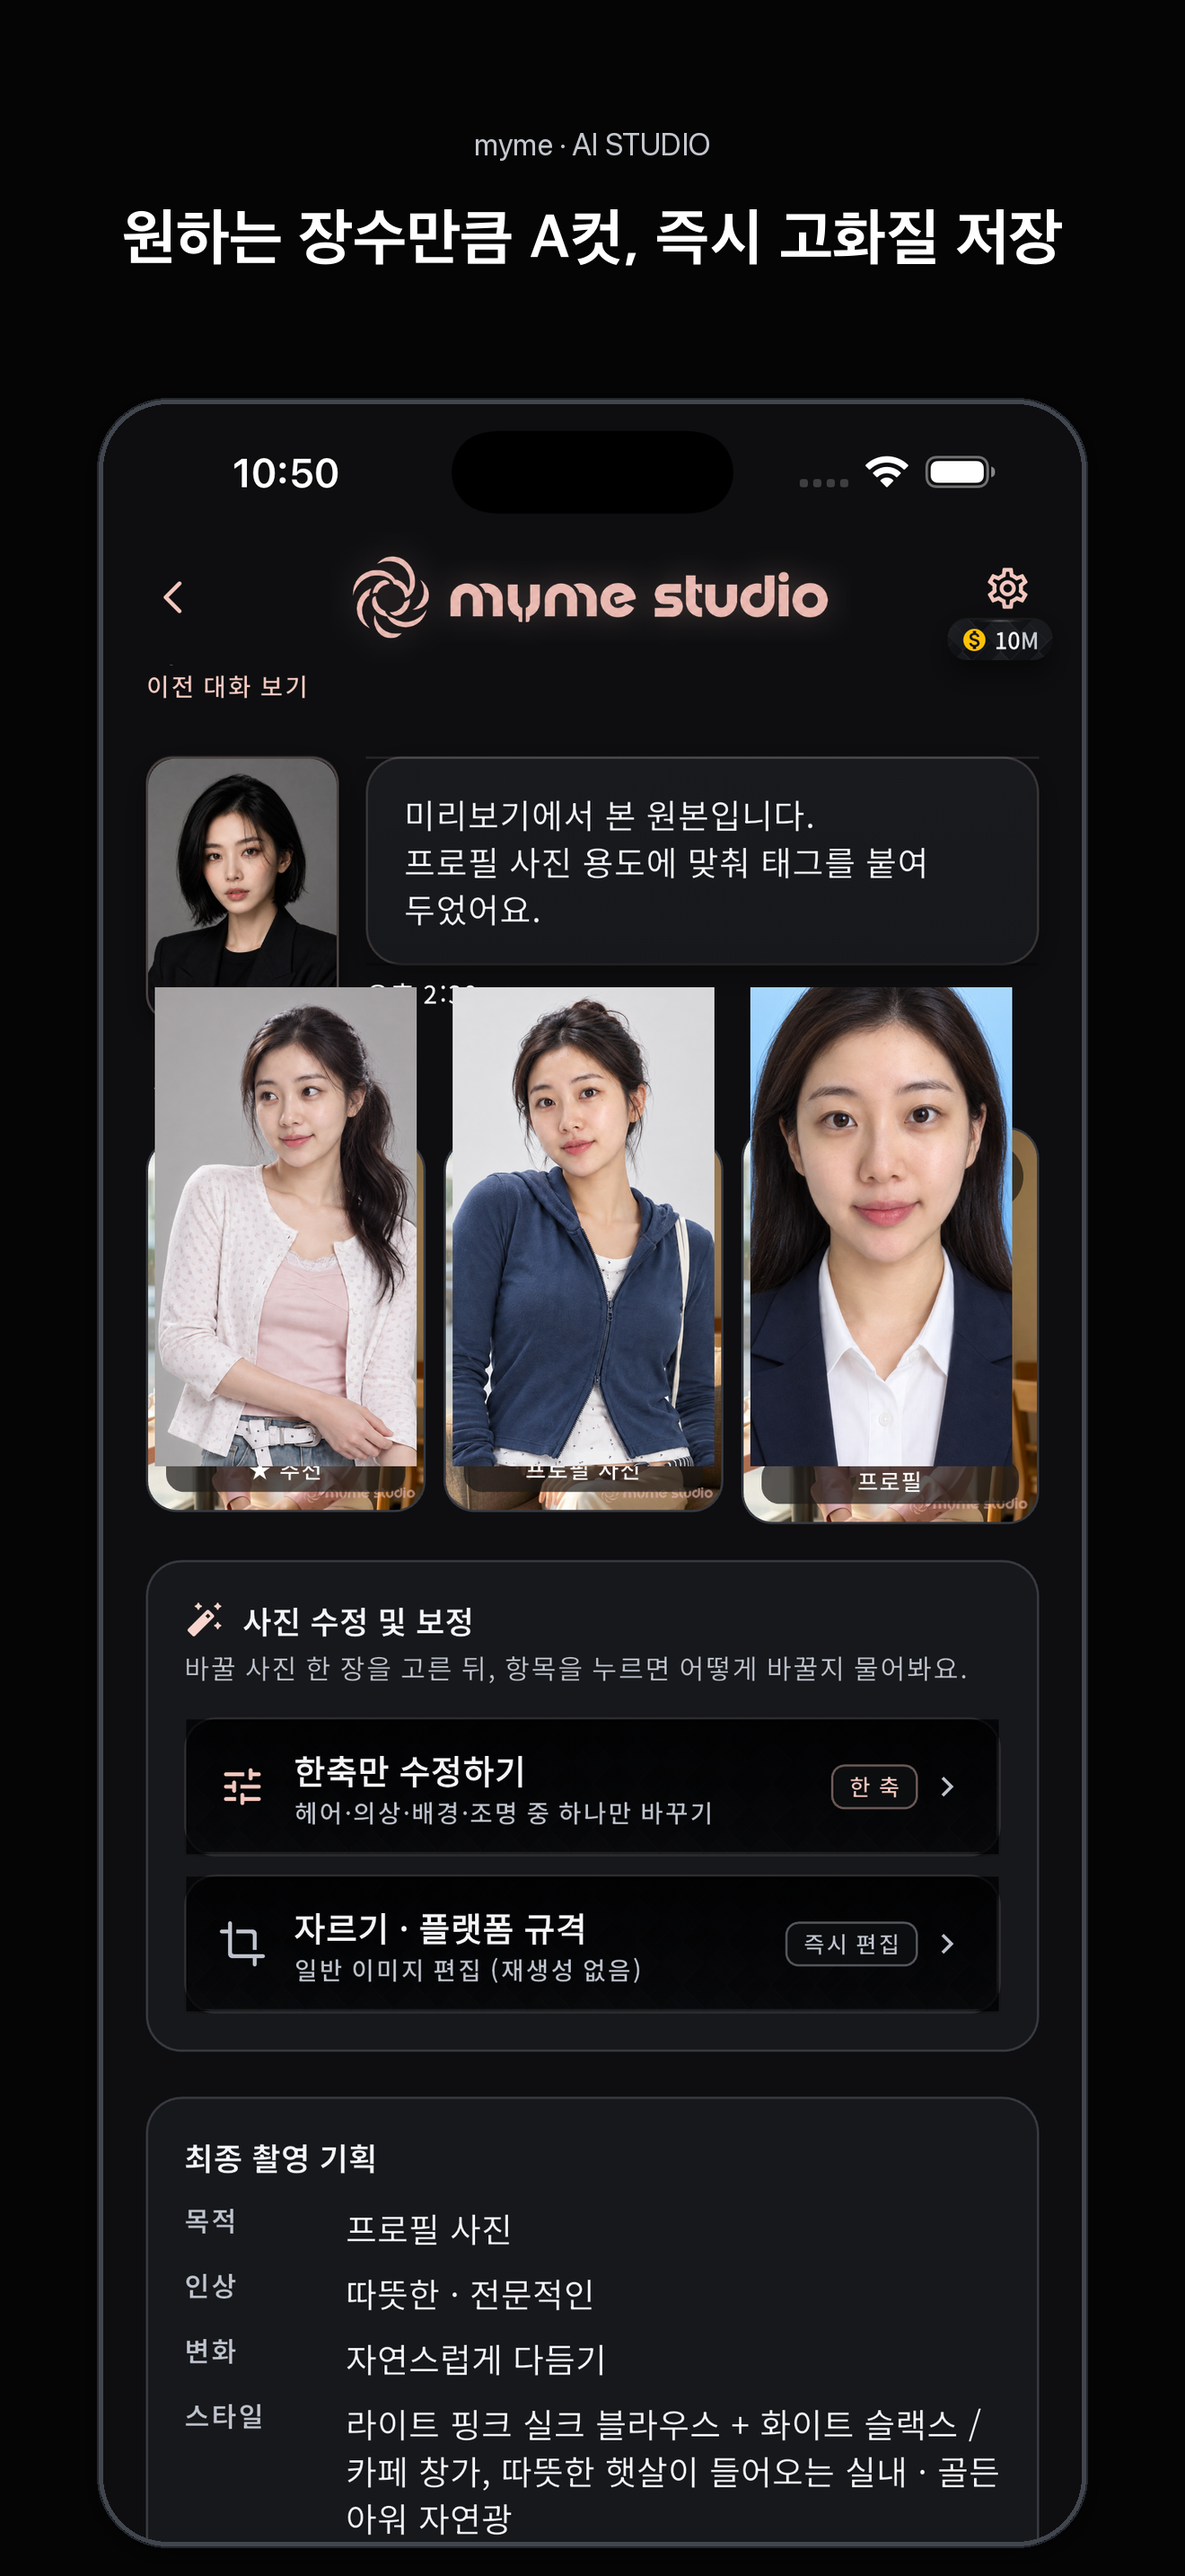
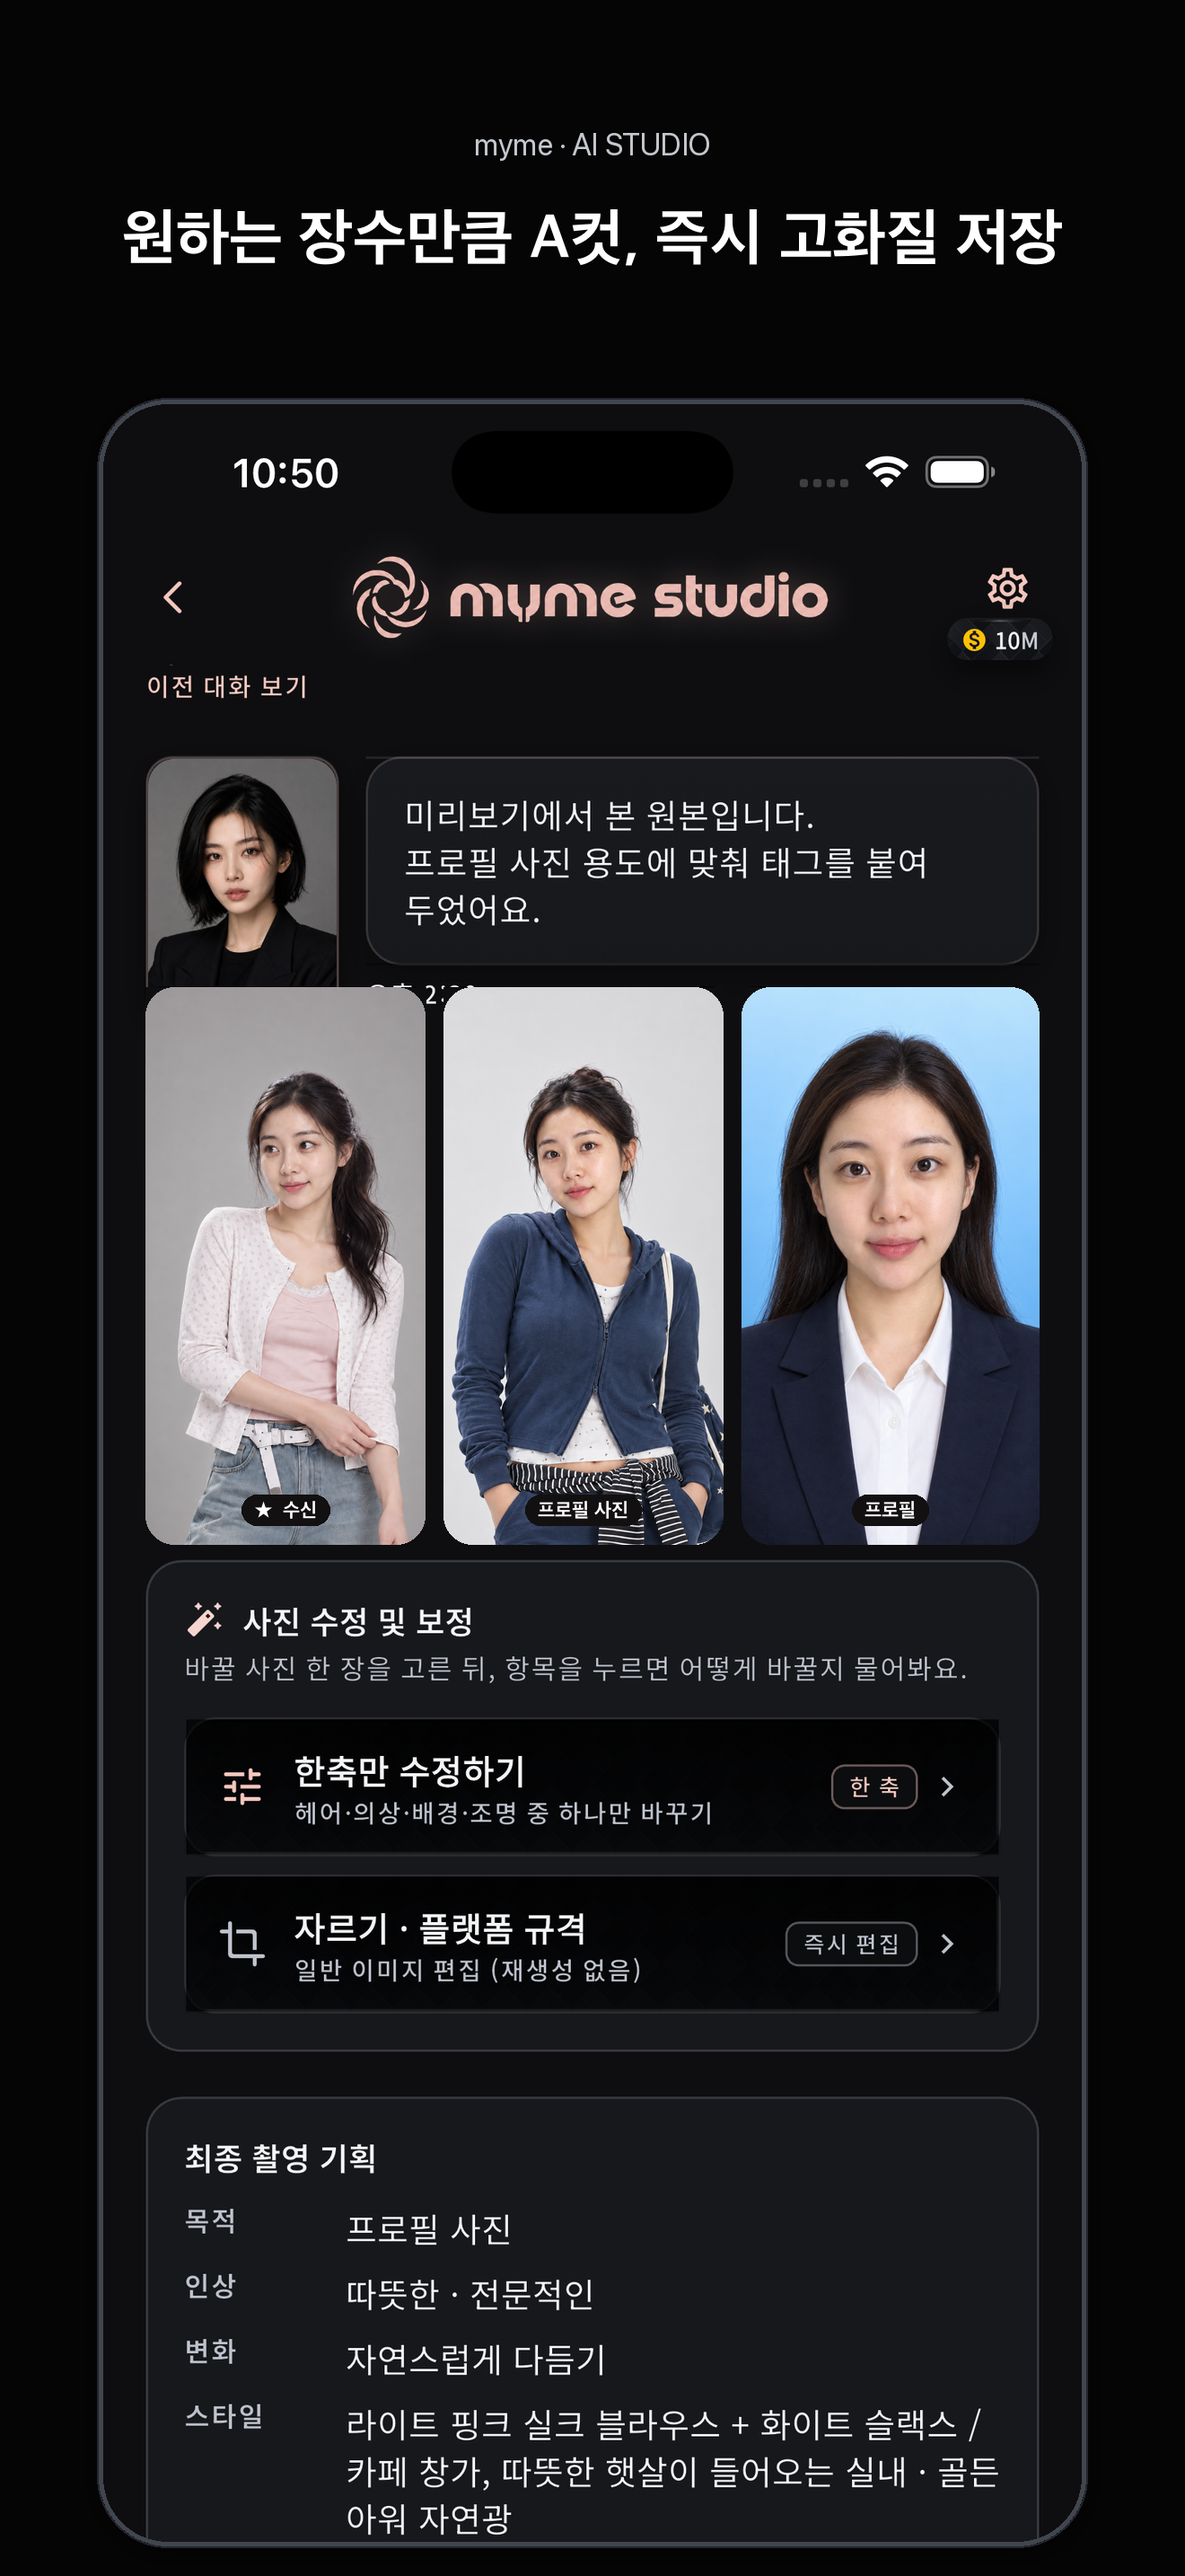
Fill the Finals cards so the old photo no longer shows around the edges.

Changed region(s): [[0.1242, 0.3724, 0.9008, 0.6206]]

diff --git a/index.html b/index.html
@@ -1072,7 +1072,7 @@
                         <figcaption class="screenshot-caption" data-i18n-key="shots.concepts.cap">Concepts</figcaption>
                     </figure>
                     <figure class="screenshot-card" role="listitem">
-                        <div class="screenshot-frame"><img src="./myme_Design Asset/studio/screenshots/04_finals.png" alt="A-cut finals" data-i18n-alt-key="shots.finals.alt" loading="lazy"></div>
+                        <div class="screenshot-frame"><img src="./myme_Design Asset/studio/screenshots/04_finals.png?v=20260925b" alt="A-cut finals" data-i18n-alt-key="shots.finals.alt" loading="lazy"></div>
                         <figcaption class="screenshot-caption" data-i18n-key="shots.finals.cap">Finals</figcaption>
                     </figure>
                     <figure class="screenshot-card" role="listitem">
